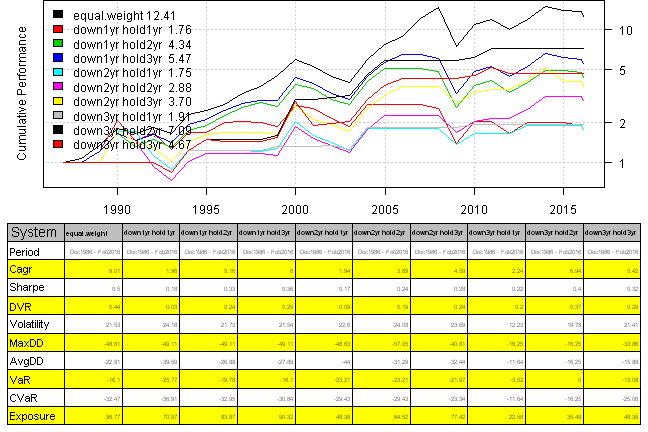
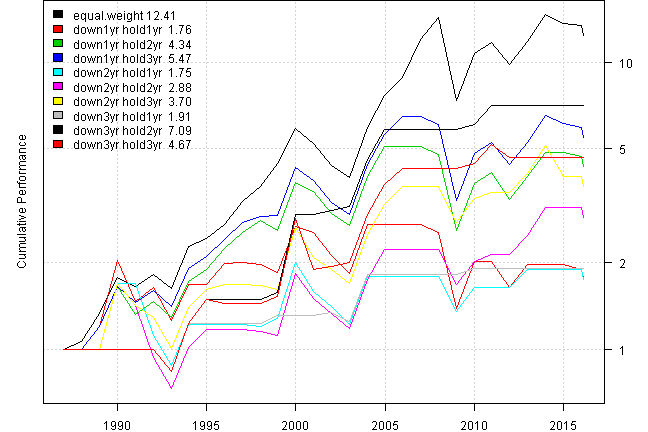
update blog post

diff --git a/_posts/2016-03-27-Country-Seasonality.md b/_posts/2016-03-27-Country-Seasonality.md
@@ -98,11 +98,25 @@ and holds for the next 1/2/3 years
 # Strategy
 #*****************************************************************
 models = run.models(signals, data)
-
-strategy.performance.snapshoot(models, T)
 {% endhighlight %}
 
-![plot of chunk plot-4](/public/images/2016-03-27-Country-Seasonality/plot-4-1.png) NULL
+![plot of chunk plot-4](/public/images/2016-03-27-Country-Seasonality/plot-4-1.png) 
+
+|              |equal.weight      |down1yr hold1yr   |down1yr hold2yr   |down1yr hold3yr   |down2yr hold1yr   |down2yr hold2yr   |down2yr hold3yr   |down3yr hold1yr   |down3yr hold2yr   |down3yr hold3yr   |
+|:-------------|:-----------------|:-----------------|:-----------------|:-----------------|:-----------------|:-----------------|:-----------------|:-----------------|:-----------------|:-----------------|
+|Period        |Dec1986 - Feb2016 |Dec1986 - Feb2016 |Dec1986 - Feb2016 |Dec1986 - Feb2016 |Dec1986 - Feb2016 |Dec1986 - Feb2016 |Dec1986 - Feb2016 |Dec1986 - Feb2016 |Dec1986 - Feb2016 |Dec1986 - Feb2016 |
+|Cagr          |9.01              |1.96              |5.16              |6                 |1.94              |3.69              |4.59              |2.24              |6.94              |5.42              |
+|Sharpe        |0.5               |0.18              |0.33              |0.36              |0.17              |0.24              |0.28              |0.22              |0.4               |0.32              |
+|DVR           |0.44              |0.03              |0.24              |0.29              |0.09              |0.19              |0.24              |0.2               |0.37              |0.29              |
+|R2            |0.88              |0.19              |0.75              |0.81              |0.52              |0.76              |0.85              |0.89              |0.92              |0.89              |
+|Volatility    |21.53             |24.18             |21.73             |21.54             |22.6              |24.08             |23.69             |12.23             |19.78             |21.41             |
+|MaxDD         |-48.81            |-49.11            |-49.11            |-49.11            |-48.63            |-57.05            |-40.81            |-16.25            |-16.25            |-33.86            |
+|Exposure      |96.77             |70.97             |83.87             |90.32             |48.39             |64.52             |77.42             |22.58             |35.48             |48.39             |
+|Win.Percent   |86.76             |70.59             |63.3              |62.74             |57.75             |56.94             |64                |87.5              |88                |92.86             |
+|Avg.Trade     |7.06              |0.64              |0.84              |0.85              |1.72              |2.73              |1.98              |3.48              |11.11             |4.76              |
+|Profit.Factor |48.55             |1.66              |2.33              |2.74              |1.82              |2.36              |2.54              |4.58              |14.26             |10.55             |
+|Num.Trades    |68                |204               |297               |314               |71                |72                |100               |24                |25                |42                |
+    
 
 
 Please note that exposure, the time strategy is invested, is small, around 30%, for 
@@ -117,7 +131,23 @@ Kenneth R. French - Data Library](http://mba.tuck.dartmouth.edu/pages/faculty/ke
 
 ![plot of chunk plot-5](/public/images/2016-03-27-Country-Seasonality/plot-5-1.png) 
 ![plot of chunk plot-6](/public/images/2016-03-27-Country-Seasonality/plot-6-1.png) 
-![plot of chunk plot-7](/public/images/2016-03-27-Country-Seasonality/plot-7-1.png) NULL
+![plot of chunk plot-7](/public/images/2016-03-27-Country-Seasonality/plot-7-1.png) 
+
+|              |equal.weight      |down1yr hold1yr   |down1yr hold2yr   |down1yr hold3yr   |down2yr hold1yr   |down2yr hold2yr   |down2yr hold3yr   |down3yr hold1yr   |down3yr hold2yr   |down3yr hold3yr   |
+|:-------------|:-----------------|:-----------------|:-----------------|:-----------------|:-----------------|:-----------------|:-----------------|:-----------------|:-----------------|:-----------------|
+|Period        |Dec1975 - Mar2016 |Dec1975 - Mar2016 |Dec1975 - Mar2016 |Dec1975 - Mar2016 |Dec1975 - Mar2016 |Dec1975 - Mar2016 |Dec1975 - Mar2016 |Dec1975 - Mar2016 |Dec1975 - Mar2016 |Dec1975 - Mar2016 |
+|Cagr          |12.08             |4.6               |9.05              |10.5              |4.38              |7.49              |9.66              |3.93              |6.91              |7.24              |
+|Sharpe        |0.65              |0.3               |0.51              |0.56              |0.31              |0.45              |0.49              |0.29              |0.42              |0.41              |
+|DVR           |0.56              |0.2               |0.46              |0.51              |0.28              |0.37              |0.43              |0.26              |0.38              |0.38              |
+|R2            |0.86              |0.64              |0.91              |0.91              |0.89              |0.82              |0.87              |0.91              |0.9               |0.92              |
+|Volatility    |21.15             |21.64             |21.12             |21.65             |17.94             |19.6              |23.29             |16.21             |18.87             |21.34             |
+|MaxDD         |-48.26            |-46.21            |-46.21            |-46.21            |-35.66            |-35.66            |-36.12            |-11.53            |-11.53            |-38.97            |
+|Exposure      |97.62             |71.43             |85.71             |90.48             |45.24             |64.29             |78.57             |19.05             |28.57             |38.1              |
+|Win.Percent   |87.42             |64.56             |67.27             |72.21             |62.5              |62.92             |70.69             |90.48             |91.3              |88.89             |
+|Avg.Trade     |5.78              |1.16              |                  |                  |3.21              |4.48              |4.39              |9.44              |15.87             |13.96             |
+|Profit.Factor |39.63             |1.96              |                  |                  |2.65              |3.83              |5.03              |10.07             |17.71             |17.03             |
+|Num.Trades    |151               |237               |333               |367               |72                |89                |116               |21                |23                |27                |
+    
 
 
 The results are similar to the results obtained using country historical returns sourced from
@@ -169,27 +199,33 @@ run.models = function(signals, data) {
 
 	data$weight[] = NA
 		data$weight[] = ntop(prices, n)
-	models$equal.weight = bt.run(data, silent=T)
+	models$equal.weight = bt.run(data, trade.summary=T, silent=T)
 
 	for(signal in names(signals)) {
 		temp = signals[[signal]]
 		data$weight[] = NA
 			data$weight[] = ntop(temp, n)
-		models[[paste(signal,'hold1yr')]] = bt.run(data, silent=T)
+		models[[paste(signal,'hold1yr')]] = bt.run(data, trade.summary=T, silent=T)
 		
 		temp = signals[[signal]]
 			temp = temp | mlag(temp)
 		data$weight[] = NA
 			data$weight[] = ntop(temp, n)
-		models[[paste(signal,'hold2yr')]] = bt.run(data, silent=T)
+		models[[paste(signal,'hold2yr')]] = bt.run(data, trade.summary=T, silent=T)
 		
 		temp = signals[[signal]]
 			temp = temp | mlag(temp) | mlag(temp,2)
 		data$weight[] = NA
 			data$weight[] = ntop(temp, n)
-		models[[paste(signal,'hold3yr')]] = bt.run(data, silent=T)
+		models[[paste(signal,'hold3yr')]] = bt.run(data, trade.summary=T, silent=T)
 	}
 
+	# create report
+	plotbt(models, plotX = T, log = 'y', LeftMargin = 3, main = NULL)	    	
+		mtext('Cumulative Performance', side = 2, line = 1)
+	
+	print(plotbt.strategy.sidebyside(models, make.plot=F, return.table=T,perfromance.fn = engineering.returns.kpi))
+	
 	models
 }	
 {% endhighlight %}
